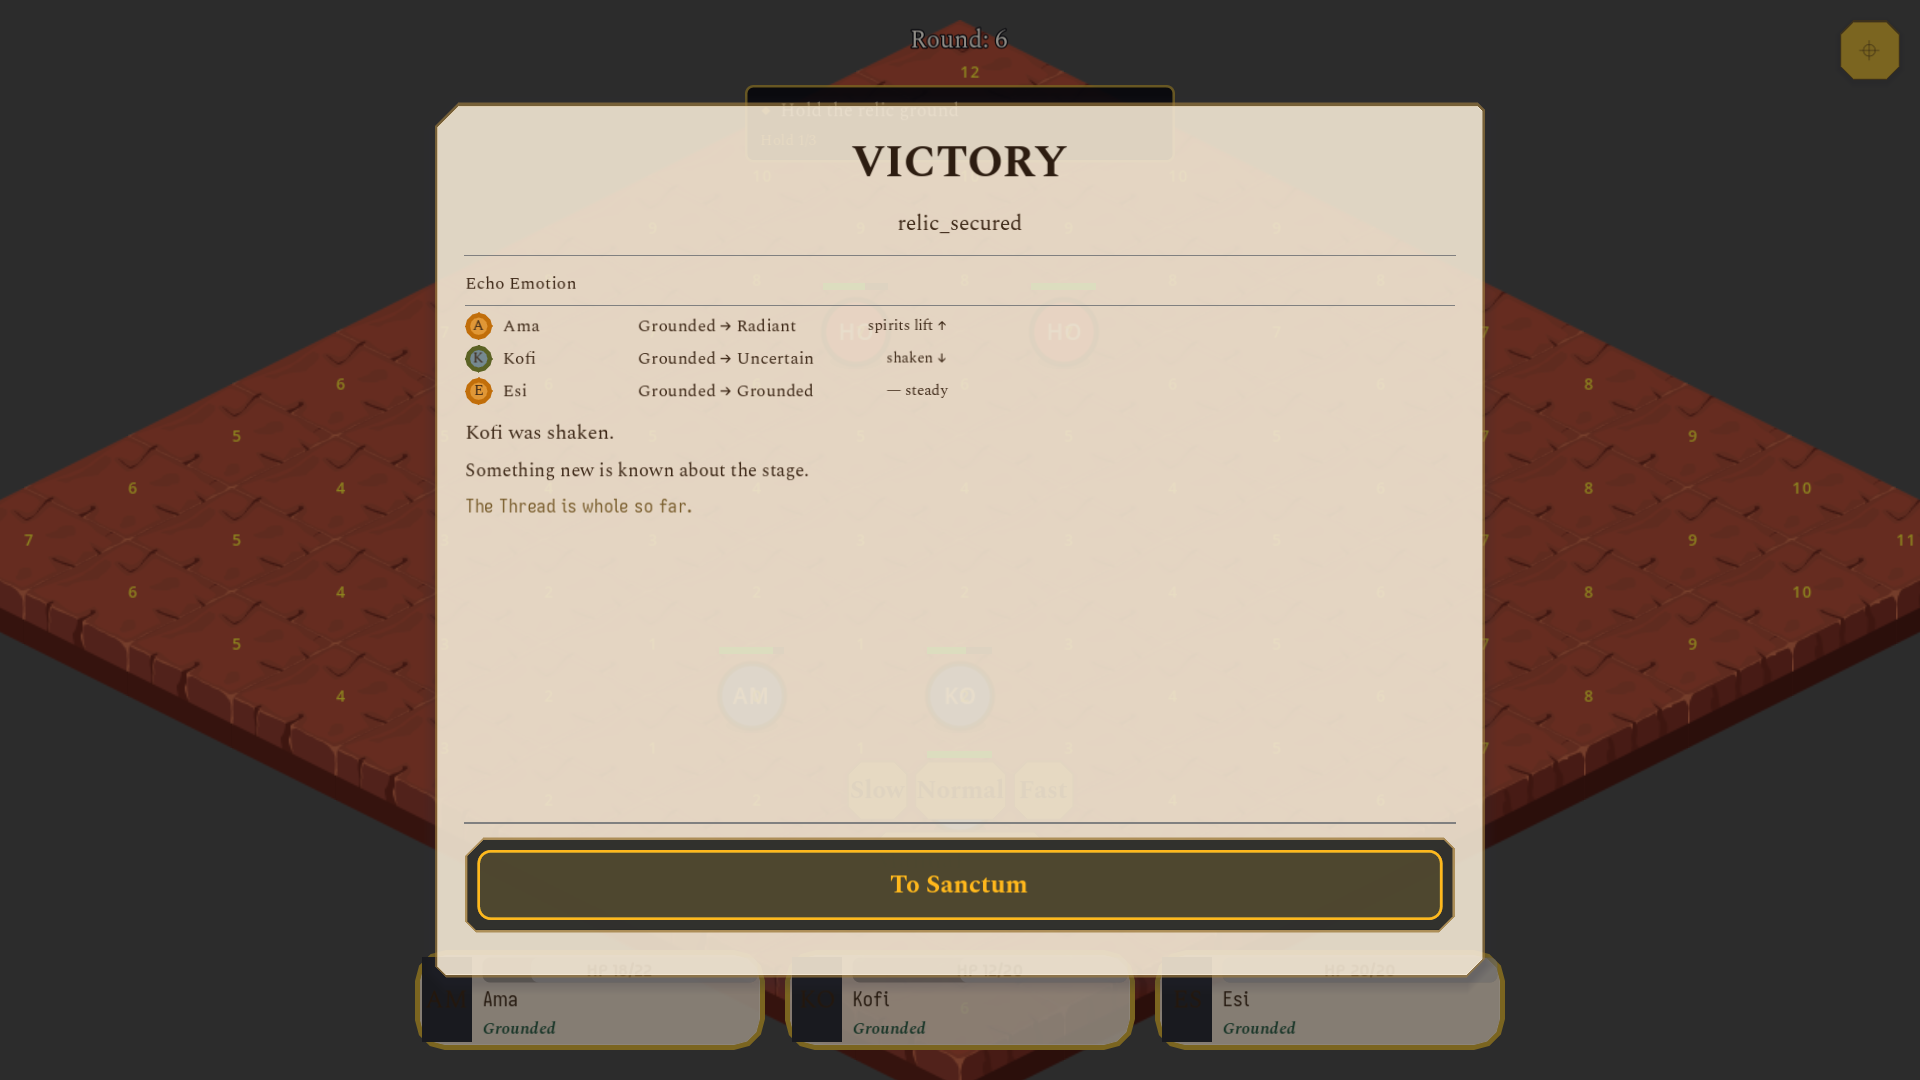
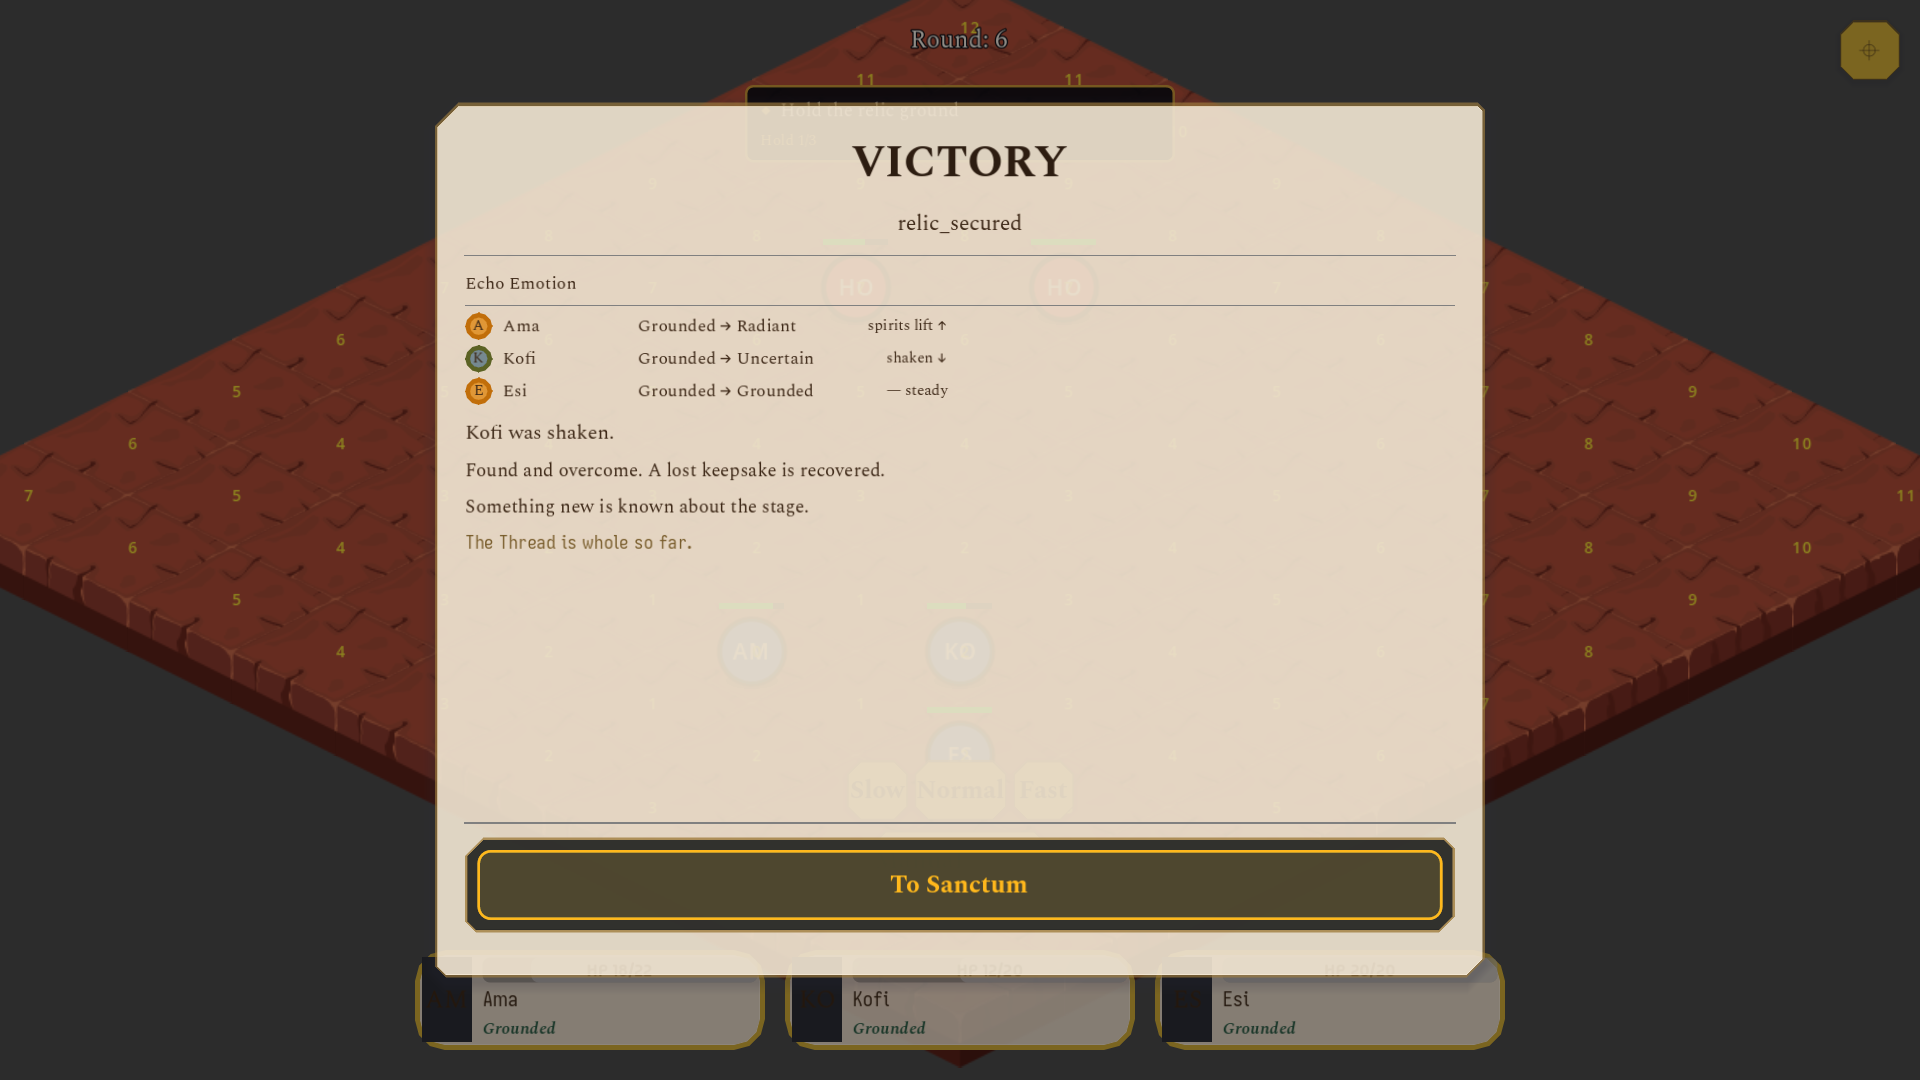
Test the real fields; update fixtures, screenshots and D-18

diff --git a/docs/stories/v2-payout-explanation/decisions.md b/docs/stories/v2-payout-explanation/decisions.md
@@ -114,3 +114,12 @@ Open for the UI: the return and retreat confirmation can say what is banked now 
 - D1: on a stage-ending card with the home sequence, the first-time ledger stays closed while the sequence runs. It opens when the sequence ends, when the player skips it by tap or key, or at once under reduced motion. `resolve.ledger.mark_seen` is sent when the ledger opens, once. A new snapshot mid-sequence drops the old wish with no emit. Cards with no home sequence open the ledger at once. After it opens, the screen scrolls only as far as needed to keep the "home N of M" line visible.
 - D-17 (PROPOSAL, pending Jeff's read): the pace rank-cause note ("The party's effort earned this rank") is not shown on a mid-stage win, because that card shows no rank letter and the note would have no anchor. It stays on the stage-ending card next to the Rank chip.
 - D3: the Pace UI tests now use the stage-ending card and assert `is_visible_in_tree()`, not the `visible` property.
+
+## D-18: placeholders replaced by real fields (UI, 2026-10-25)
+
+- Thread line: reads `data.thread_whole` (bool, combat victory card). It shows "The Thread is whole so far." only when true. False or missing hides it. The derivation from `actors` is deleted.
+- Story mark: reads `data.objective_overcome` ({ index, type, label }, present only when this fight overcame an objective). It shows "Found and overcome." plus the label from data. The index and the type are never shown.
+- Intel line: reads `data.intel_gained` (an int; the key exists only above 0). Hidden when missing or 0. No fight reveals a situation today, so it does not show in real play; fixtures prove it.
+- `echoes_alive` params: `lost` holds every death of the stage so far, and `alive` excludes them. The home sequence reads the params only. A lost name with no row in this fight (a death in an earlier fight) shows once in a note under the rows, and the ledger row drops its own note.
+- Still PROPOSAL placeholder copy (Jeff owns it): "Found and overcome." and the intel line text.
+- GAP for Jeff's copy: no wording exists for a broken Thread, so the Thread line is simply hidden when `thread_whole` is false.
